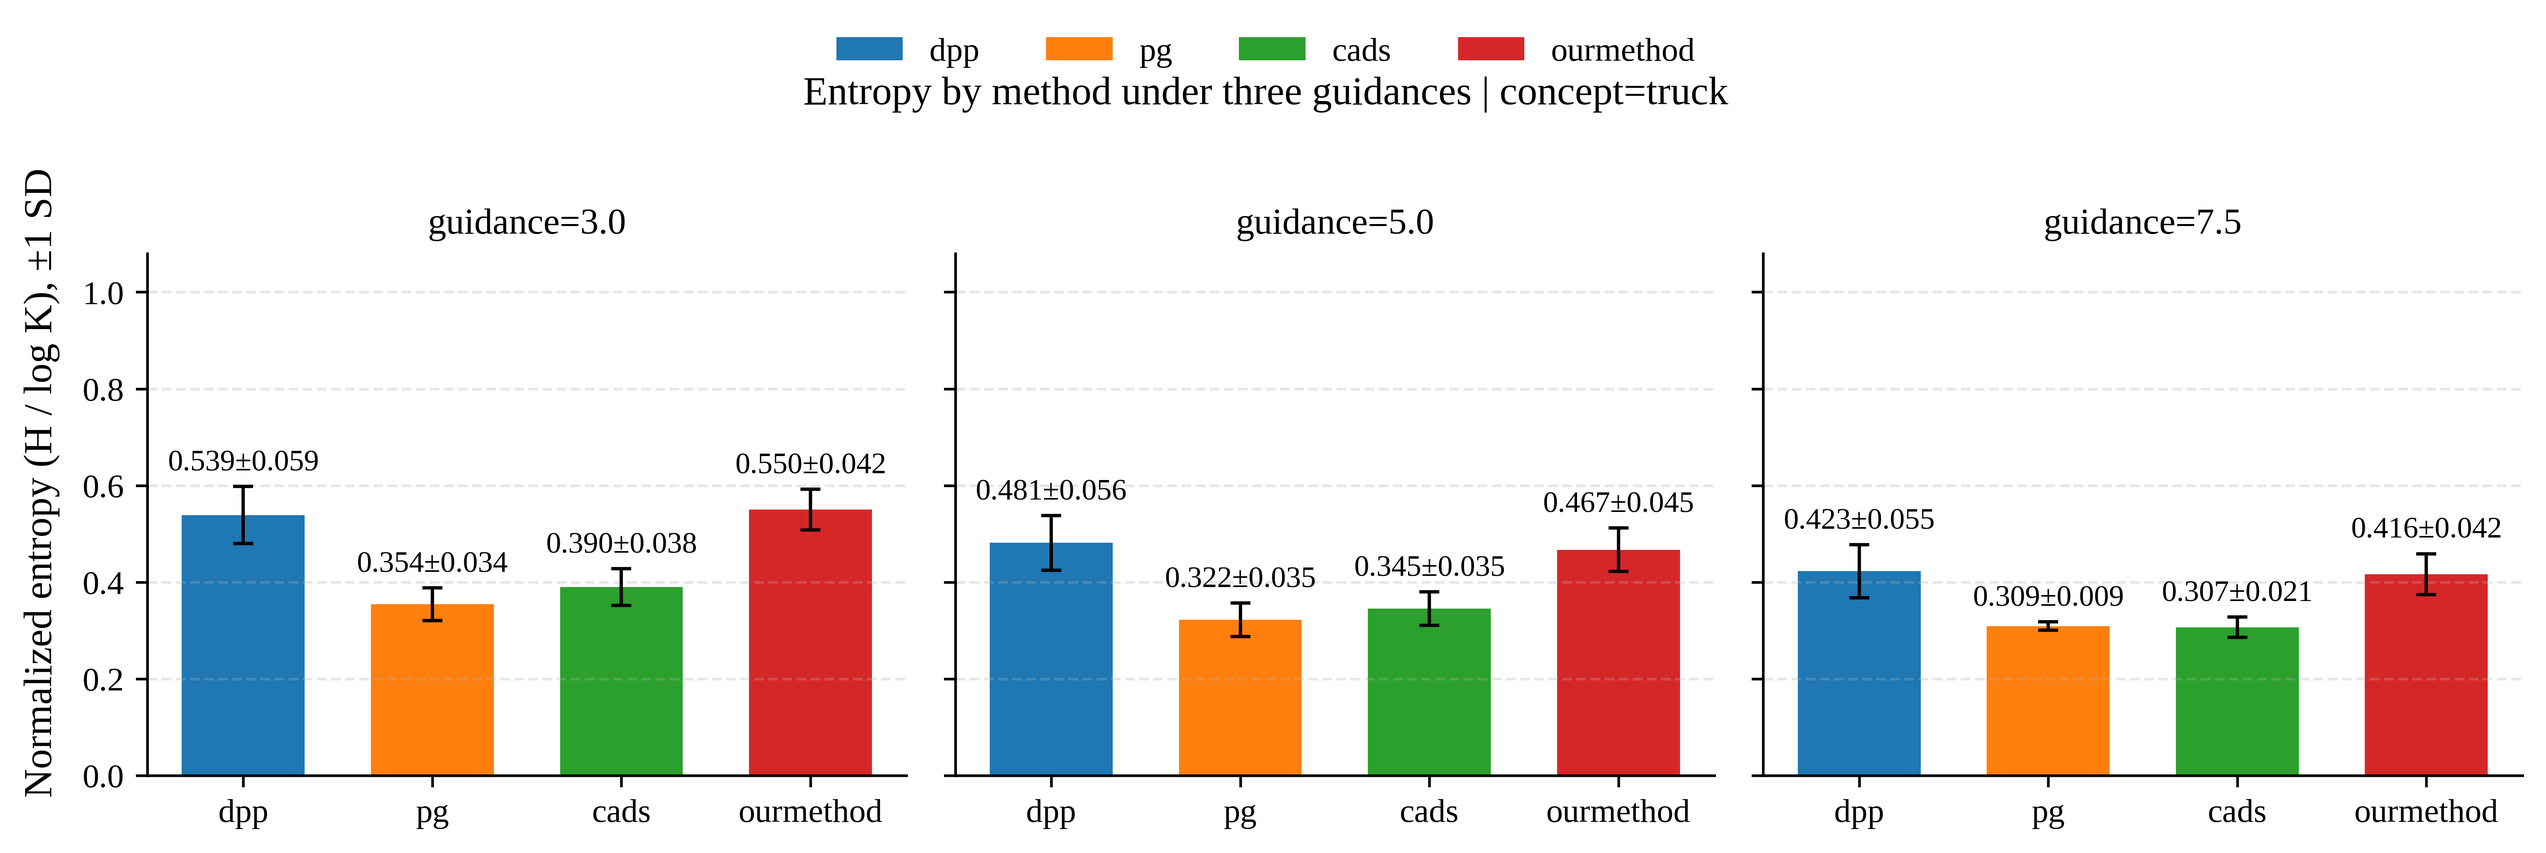
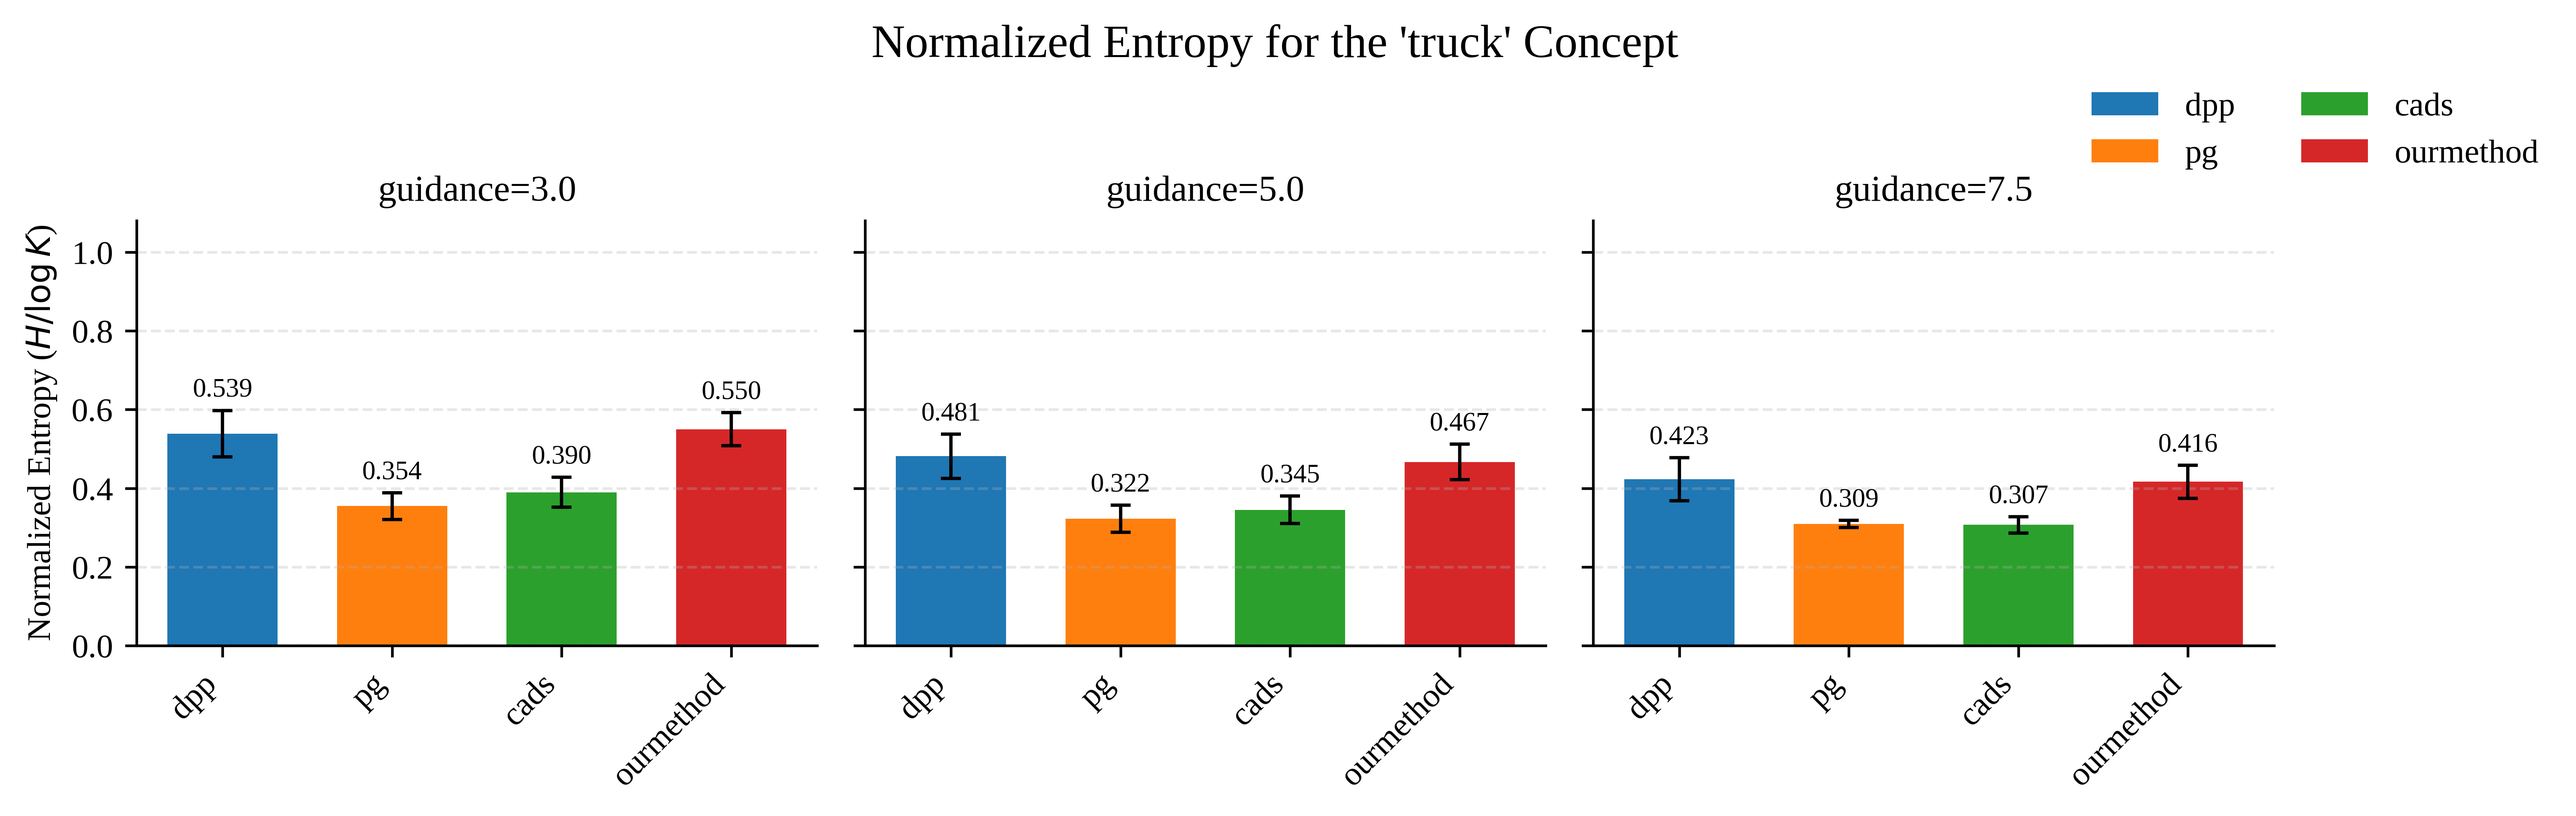
png

diff --git a/experiments/plot_exp3_cover.py b/experiments/plot_exp3_cover.py
@@ -127,36 +127,41 @@ def plot_cov_tau_panel(
     tau_min: float = 0.05,
     tau_max: float = 0.65,
     dense: int = 200,
-    legend_loc: str = "upper center",
+    # CHANGED: Default legend_loc is no longer used directly in fig.legend
+    legend_loc: str = "upper right",
     show_points: bool = True,
 ):
     outputs_root = Path(outputs_root)
 
-    # 颜色分配：按方法稳定映射
+    # Color mapping remains the same
     colors = plt.get_cmap("tab10").colors
     color_map = {m: colors[i % len(colors)] for i, m in enumerate(methods)}
 
     n = len(guidances)
-    # 关键：sharex=True（共享 x 轴）
     fig, axes = plt.subplots(1, n, figsize=(3.2 * n + 1.8, 3.2), sharey=True, sharex=True)
     if n == 1:
         axes = [axes]
-    mid_idx = n // 2  # 只在中间子图显示 x 轴名称
+    mid_idx = n // 2
 
     plotted_methods = set()
 
+    # The plotting loop for each panel remains the same
     for idx, (ax, g) in enumerate(zip(axes, guidances)):
-        df = _read_one_guidance_df(outputs_root, concept, methods, g)
+        try:
+            df = _read_one_guidance_df(outputs_root, concept, methods, g)
+        except (FileNotFoundError, ValueError) as e:
+            print(f"[WARN] Skipping guidance {g}: {e}")
+            ax.set_title(f"guidance={float(g):.1f}\n(no data)", fontsize=11)
+            ax.set_xlim(tau_min, tau_max)
+            ax.set_ylim(0.0, 1.0)
+            ax.grid(True, alpha=0.3, ls="--")
+            continue
 
-        # 仅显示 [tau_min, tau_max] 区间
         df = df[(df["tau"] >= tau_min) & (df["tau"] <= tau_max)]
         x_dense = np.linspace(tau_min, tau_max, dense)
 
         if df.empty:
             ax.set_title(f"guidance={float(g):.1f}\n(no data)", fontsize=11)
-            ax.set_xlim(tau_min, tau_max)
-            ax.set_ylim(0.0, 1.0)
-            ax.grid(True, alpha=0.3, ls="--")
         else:
             for m in methods:
                 sub = df[df["method"] == m].sort_values("tau")
@@ -177,45 +182,57 @@ def plot_cov_tau_panel(
                     y_lo = np.clip(y_line - sd_line, 0.0, 1.0)
                     y_hi = np.clip(y_line + sd_line, 0.0, 1.0)
                     ax.fill_between(x_dense, y_lo, y_hi, color=color_map[m], alpha=0.15, lw=0)
-
+                
                 plotted_methods.add(m)
 
-            ax.set_xlim(tau_min, tau_max)
-            ax.set_ylim(0.0, 1.0)
-            ax.grid(True, alpha=0.3, ls="--")
-
+        ax.set_xlim(tau_min, tau_max)
+        ax.set_ylim(0.0, 1.0)
+        ax.grid(True, alpha=0.3, ls="--")
         ax.set_title(f"guidance={float(g):.1f}", fontsize=11)
 
         if idx == mid_idx:
-            ax.set_xlabel("tau")                    
-            ax.tick_params(axis="x", labelbottom=True, bottom=True)
+            ax.set_xlabel(r"threshold $\tau$") # Use LaTeX for tau symbol
         else:
-            ax.set_xlabel("")                        
-            ax.tick_params(axis="x", labelbottom=True, bottom=True)  
+            ax.set_xlabel("")
+        
+        # This part for tick labels can be simplified or kept as is
+        ax.tick_params(axis="x", labelbottom=True, bottom=True)
 
-    axes[0].set_ylabel("coverage")
+    axes[0].set_ylabel("Coverage")
 
     legend_methods = [m for m in methods if m in plotted_methods] or methods
 
-    anchor = (0.5, 1.12) if isinstance(legend_loc, str) and legend_loc.lower().startswith("upper") else (0.5, -0.02)
-
+    # === START OF KEY CHANGES ===
+    
+    # CHANGED: Legend positioning
+    # We now place the legend relative to the entire figure, not the axes.
+    # `bbox_to_anchor=(1.0, 1.0)` places the anchor point at the top-right corner of the figure.
+    # `loc='upper right'` tells the legend to align its own top-right corner to that anchor point.
     fig.legend(
         handles=[plt.Line2D([0], [0], color=color_map[m], lw=2.2) for m in legend_methods],
         labels=legend_methods,
-        loc=legend_loc,
-        ncol=min(3, len(legend_methods)),
+        loc='upper right',
+        bbox_to_anchor=(1.0, 1.0), # Anchor to the top-right of the figure
+        ncol=2,                    # CHANGED: Arrange in 2 columns
         frameon=False,
-        bbox_to_anchor=anchor
+        bbox_transform=fig.transFigure # Use figure coordinates
     )
 
+    # CHANGED: Title and font size
     if title is None:
-        title = f"Coverage–τ — concept={concept}"
-    fig.suptitle(title, y=1.02, fontsize=12)
-    fig.tight_layout()
+        # Use a more descriptive title with LaTeX formatting
+        title = f"Mode Coverage vs. Threshold ($\\tau$) for the '{concept}' Concept"
+    
+    # CHANGED: Increase title font size and adjust position slightly
+    fig.suptitle(title, y=1.05, fontsize=14)
+    
+    # === END OF KEY CHANGES ===
+
+    fig.tight_layout(rect=[0, 0, 0.9, 1]) # Adjust layout to make space for the legend on the right
 
     if save_path:
         Path(save_path).parent.mkdir(parents=True, exist_ok=True)
-        fig.savefig(save_path, dpi=600, bbox_inches="tight")
+        fig.savefig(save_path, dpi=300, bbox_inches="tight") # Changed DPI for web/paper quality
         print(f"[SAVE] {save_path}")
         pdf = Path(save_path).with_suffix(".pdf")
         fig.savefig(pdf, bbox_inches="tight")

diff --git a/experiments/plot_exp3_entropy.py b/experiments/plot_exp3_entropy.py
@@ -114,7 +114,6 @@ def _load_all(concept, methods, guidances, outputs_root, debug=False):
                  entropy_std =("entropy_std","mean")))
     return df
 
-# ================= Styles =================
 def _facet_bars(
     df, concept, methods, guidances,
     title=None,
@@ -122,7 +121,7 @@ def _facet_bars(
     annotate=True,
     annot_fmt="{:.3f}±{:.3f}",
     show_legend=True,
-    legend_loc="upper center",
+    legend_loc="upper center", # Note: This argument is now overridden for top-right placement
     annot_pad=0.02,
 ):
     methods_order   = [m for m in methods if m in set(df["method"])]
@@ -132,12 +131,13 @@ def _facet_bars(
     fig, axes = plt.subplots(1, n_g, figsize=(3.0*n_g + 1.8, 3.2), sharey=True)
     if n_g == 1: axes = [axes]
 
-    colors    = plt.get_cmap("tab10").colors
+    colors      = plt.get_cmap("tab10").colors
     color_map = {m: colors[i % len(colors)] for i, m in enumerate(methods_order)}
     legend_handles = [Patch(facecolor=color_map[m], edgecolor="none", label=m) for m in methods_order]
 
     global_top_needed = 0.0
 
+    # The main plotting loop remains the same
     for ax, g in zip(axes, guidances_order):
         xs, ys, es, cols = [], [], [], []
         x_centers = np.arange(len(methods_order), dtype=float)
@@ -157,24 +157,43 @@ def _facet_bars(
         if annotate and len(xs):
             for x, y, s in zip(xs, ys, es):
                 y_text = y + (s if show_error else 0.0) + annot_pad
-                ax.text(x, y_text, annot_fmt.format(y, s), ha="center", va="bottom", fontsize=9, clip_on=False)
+                ax.text(x, y_text, f"{y:.3f}", ha="center", va="bottom", fontsize=8, clip_on=False) # Simplified annotation
 
         ax.set_title(f"guidance={g:.1f}", fontsize=11)
         ax.set_xticks(x_centers)
-        ax.set_xticklabels(methods_order)
+        ax.set_xticklabels(methods_order, rotation=45, ha="right") # Rotated labels for readability
         ax.grid(axis="y", alpha=0.3, ls="--")
         ax.spines["top"].set_visible(False); ax.spines["right"].set_visible(False)
 
     y_top = max(1.08, global_top_needed + 0.01) if global_top_needed > 0 else 1.08
     for ax in axes: ax.set_ylim(0.0, min(1.12, y_top))
 
-    fig.supylabel("Normalized entropy (H / log K), ±1 SD")
-    fig.suptitle(title or f"Entropy by method under three guidances | concept={concept}", y=1.03, fontsize=12)
-    fig.tight_layout()
+    # CHANGED: Made y-axis label more descriptive
+    axes[0].set_ylabel("Normalized Entropy ($H/\\log K$)")
 
+    # === START OF KEY CHANGES ===
+
+    # CHANGED: A more descriptive, larger title
+    if title is None:
+        title = f"Normalized Entropy for the '{concept}' Concept"
+    fig.suptitle(title, y=1.05, fontsize=14)
+    
+    # CHANGED: Legend positioning and layout
     if show_legend and legend_handles:
-        fig.legend(handles=legend_handles, loc=legend_loc, frameon=False,
-                   ncol=min(4, len(legend_handles)), bbox_to_anchor=(0.5, 1.12))
+        fig.legend(
+            handles=legend_handles, 
+            loc='upper right',
+            bbox_to_anchor=(1.0, 1.0),   # Anchor to the top-right of the figure
+            ncol=2,                     # Arrange in 2 columns
+            frameon=False,
+            bbox_transform=fig.transFigure # Use figure coordinates
+        )
+
+    # === END OF KEY CHANGES ===
+    
+    # Adjust layout to make space for the legend on the right
+    fig.tight_layout(rect=[0, 0, 0.9, 1])
+    
     return fig
 
 def _heatmap(df, concept, methods, guidances, title=None, annotate=True, annot_fmt="{:.3f}±{:.3f}"):
